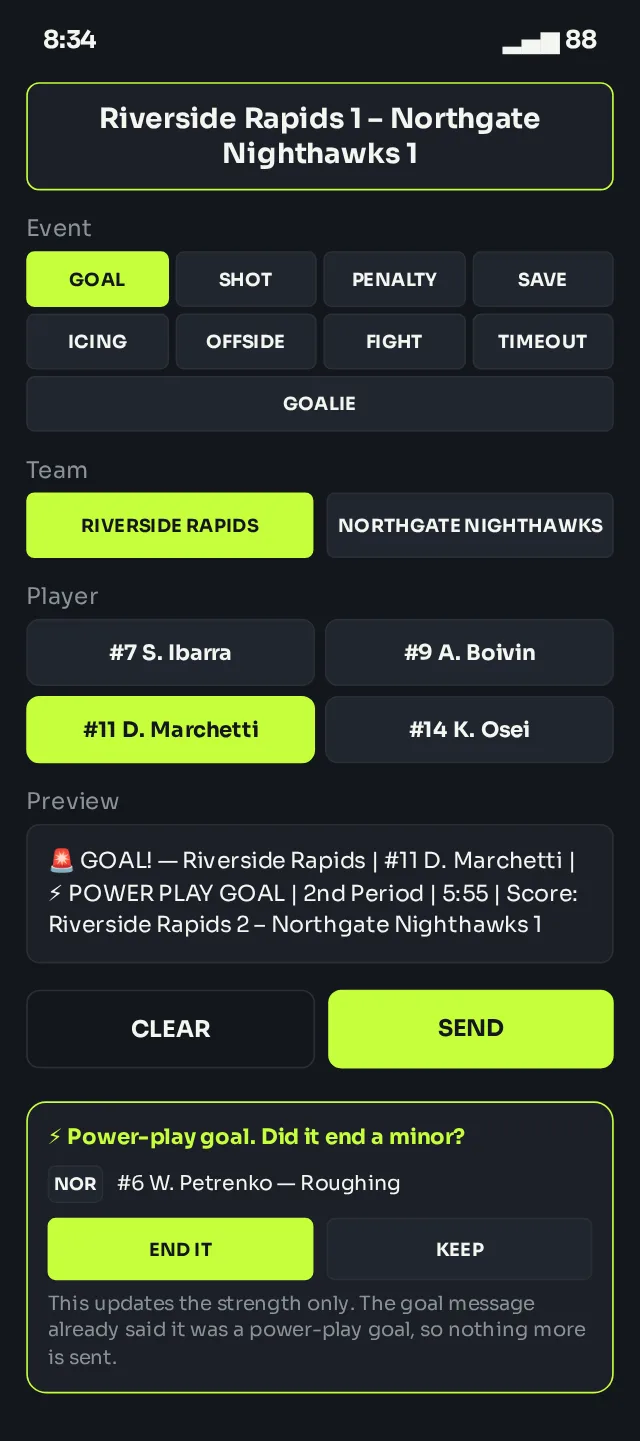
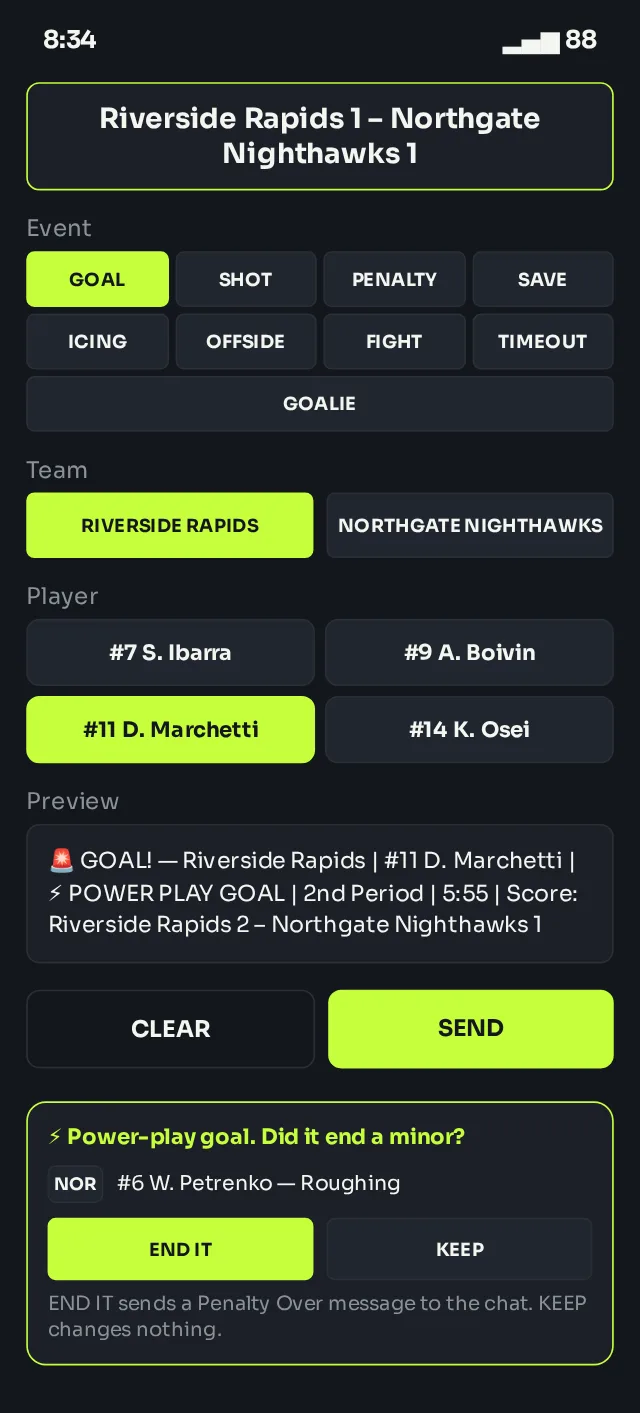
Manual: END IT after a power-play goal sends a Penalty Over message

diff --git a/manual.html b/manual.html
@@ -299,9 +299,10 @@
           <p>If the scoring team has an extra skater because of a penalty, the goal is tagged
             <strong>⚡ POWER PLAY GOAL</strong> automatically. A goal by the team that is a skater down is tagged
             <strong>SHORT-HANDED GOAL</strong>. After you send a power-play goal, Rink Cast asks whether it ended a
-            minor: tap <strong>END IT</strong> to take that penalty out of the box (for a double minor it offers
-            <strong>TAKE OFF 2 MIN</strong>), or <strong>KEEP</strong> to leave it. This only updates the penalty box;
-            nothing extra is sent to the chat. Majors and misconducts aren't ended by a goal. (In YOUTH rules there
+            minor: tap <strong>END IT</strong> to take that penalty out of the box, and Rink Cast sends a
+            <strong>✅ PENALTY OVER</strong> message naming the player and saying the goal ended it, or tap
+            <strong>KEEP</strong> to leave it. For a double minor it offers <strong>TAKE OFF 2 MIN</strong>, which
+            shortens it and updates the box without sending anything. Majors and misconducts aren't ended by a goal. (In YOUTH rules there
             are no power-play tags and no prompt.)</p>
         </div>
         <div class="doc-shots doc-shots--row">
